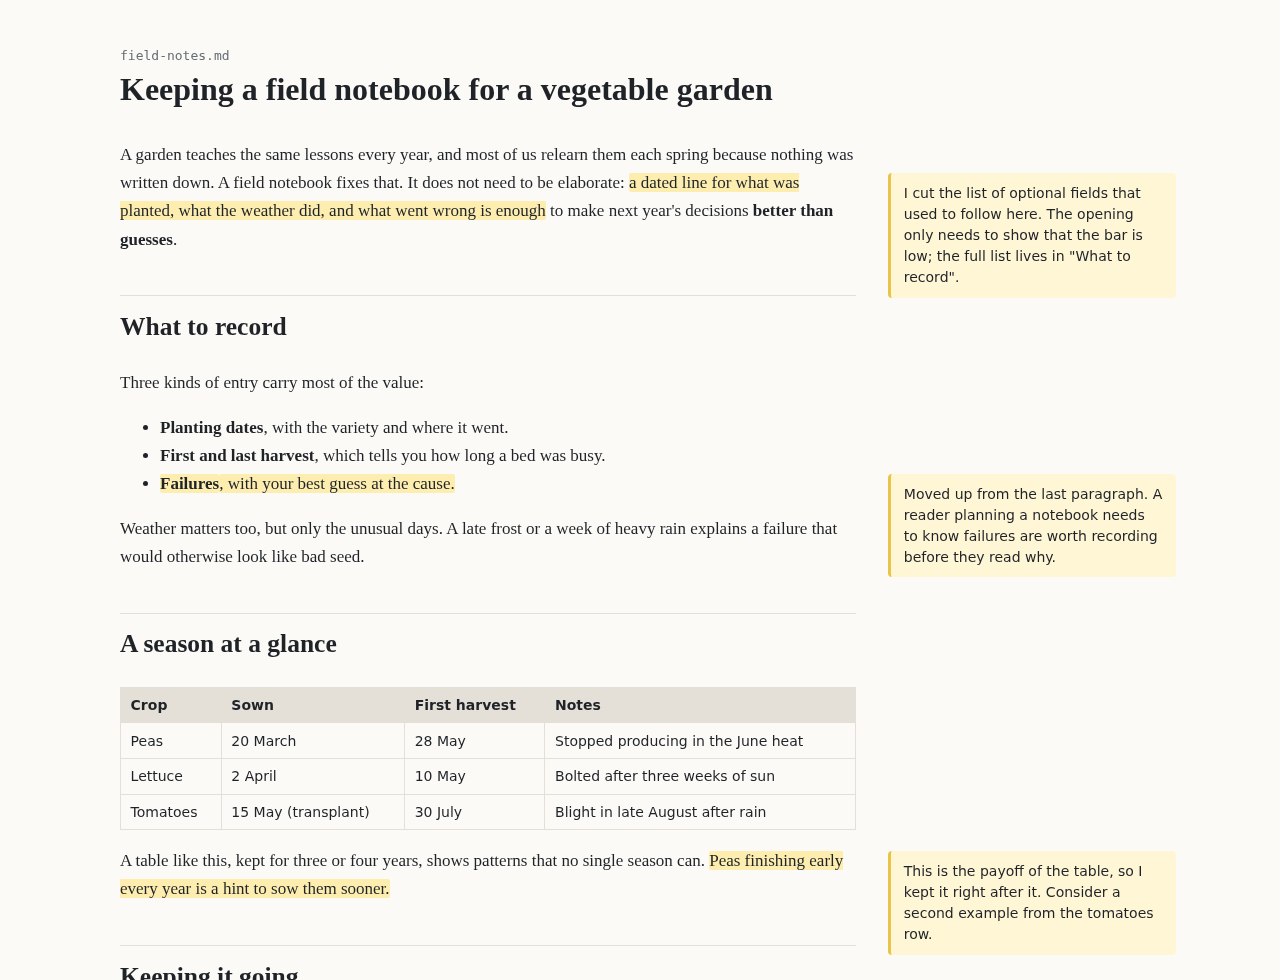
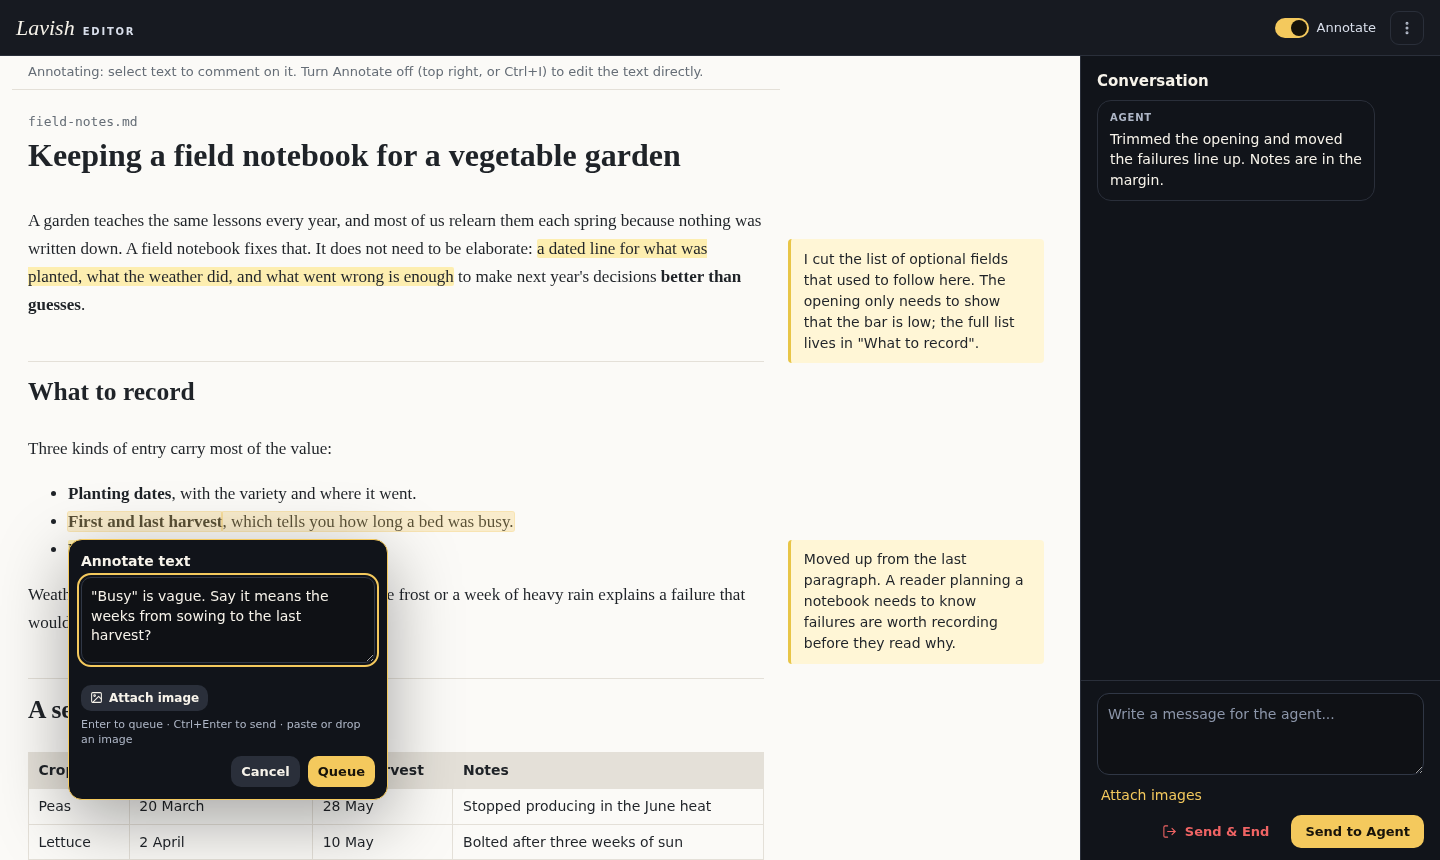
draft: review edits, direct editing, interaction screenshot

diff --git a/_drafts/2026-10-22-interactive-review.md b/_drafts/2026-10-22-interactive-review.md
@@ -5,7 +5,7 @@ categories: [AI Coding, Agent Skill, Claude Code, Writing]
 excerpt: "interactive-review is an agent skill that turns a coding agent into an editor for a draft. You comment on the draft, the agent edits and answers, and the comments get resolved over several turns. It has a visual mode, where you review a rendered page in Lavish instead of reading comment markers in the markdown."
 ---
 
-TL;DR - `interactive-review` is an agent skill for editing a piece of writing with a coding agent over many short turns instead of one rewrite. In the default **bracket mode**, you leave `<comments>` in the markdown file and the agent replies in `<<double brackets>>` beside them. In **visual mode**, the agent renders the markdown to a reading page and opens it in Lavish [[1]], you highlight passages and comment on them in the browser, and the agent's explanations show up as margin notes while the markdown file stays clean. The skill lives in this blog's repository under [`skills/interactive-review`][skill], and installs with `npx skills add kfchou/kfchou.github.io --skill interactive-review`.
+TL;DR - Claude Code users have no good way to review and edit markdown interactively with an agent, so I built one. `interactive-review` is an agent skill that makes the agent your editor, working a draft with you over many short turns instead of one rewrite. You can trade comments inline in the markdown file, or switch to **visual mode**: read a rendered page in Lavish [[1]], highlight a passage, comment on it, and see the agent's explanations in the margin. Install it with `npx skills add kfchou/kfchou.github.io --skill interactive-review`.
 
 ## Table of Contents <!-- omit from toc -->
 
@@ -17,6 +17,8 @@ TL;DR - `interactive-review` is an agent skill for editing a piece of writing wi
 - [Limits](#limits)
 
 ## Why a protocol for editing
+
+I work with markdown files a lot. Agents write good code, but the markdown they write is unpleasant to review in raw form: I end up reading syntax instead of the piece a reader will see. I wanted two things together, a rendered view of the document that is pleasant to read, and an interactive editing session with the agent on that same document.
 
 Asking an agent to "improve this draft" gets you a rewrite. The rewrite is smoother and less mine: the specific claims get softened, the voice drifts toward the model's, and the paragraph I liked is gone with no record of why. Going back and forth in chat keeps the draft intact, but the comments live in the conversation and the edits live in the file, and the two drift apart. After a few rounds I can't tell which of my comments were acted on, which were argued with, and which were dropped.
 
@@ -54,18 +56,22 @@ The agent gets autonomy for local edits only. It changes a word or tightens a pa
 
 On a long draft, bracket mode's markers get in the way of reading. The file fills with comments, a table is hard to judge as raw pipe syntax, and I end up reviewing markdown source instead of the piece a reader will see.
 
+The idea comes from the Claude desktop app, where you can highlight part of a response, comment on it, and have those comments go into your next message. I wanted the same thing for Claude Code users, in something lightweight that runs locally beside a terminal session.
+
 Visual mode moves the conversation out of the file. The skill includes a small script, `scripts/render.sh`, which uses pandoc [[2]] to render the markdown to a reading page: a serif body, tables in a scrolling wrapper, and light and dark themes. The agent opens that page in Lavish [[1]], a local review surface for HTML pages in which you select text, comment on it, and send the comments back to the agent. The agent's notes are a JSON file of `{quote, note}` pairs; the page highlights each quoted passage and shows the note in the margin beside it.
 
-![A rendered draft in visual mode, with highlighted passages and the agent's notes in the right margin](/assets/2026-10-22-interactive-review/visual-mode.png)
+![Visual mode in Lavish: a comment being written on a highlighted list item, with the agent's notes in the margin and its last reply in the Conversation panel](/assets/2026-10-22-interactive-review/visual-mode.png)
 
 One turn in visual mode goes like this:
 
 1. The agent renders the page and opens it with `lavish-axi <page>`.
-2. It waits with `lavish-axi poll <page>`. I read the page, highlight passages, write comments, and send them.
+2. It waits with `lavish-axi poll <page>`. I read the page, comment on passages or edit the text directly, and send.
 3. The agent edits the markdown file, never the page, and rewrites the notes file to explain what it changed and what it wants from me.
 4. It re-renders and waits again with `lavish-axi poll <page> --agent-reply "<handoff>"`, which shows its short summary in Lavish.
 
 This repeats until I end the session from Lavish. The protocol is the same as bracket mode. My comments arrive as quoted selections instead of `<brackets>`, the agent's `<<replies>>` become margin notes, and a resolved thread drops its note. To answer a note, I highlight it and comment.
+
+I can also edit the text on the page. With Lavish's Annotate switch turned off, the paragraphs, headings, list items, and table cells become editable. When I click away from a block I changed, the page queues the change for the agent with the text before and after, and marks the block as edited until the next render. The agent applies the change to the markdown, keeping any bold, links, or code spans around the words I changed. It treats an edit as my decision rather than a suggestion, so it adds a note only when the edit conflicts with something else in the draft. Editing and commenting are separate modes because Lavish doesn't open a comment box for a selection inside editable text.
 
 Notes anchor by exact quote, so a note goes stale when the agent edits the passage it quotes. Stale notes are not dropped. The page lists them at the bottom under "Notes that no longer match the text", and the skill tells the agent to fix or delete them before handing back.
 
@@ -90,6 +96,8 @@ The `--skill` flag is needed because the repository has other skills that only m
 The page doesn't refresh while the agent edits the markdown; it changes only when the agent re-renders it at the end of a turn. There is also no view of what changed since my last review, so I rely on the agent's notes to say what moved.
 
 The quote anchoring is plain text matching. A quote that appears twice highlights its first occurrence, and a quote copied with markdown syntax in it (`**bold**`, link brackets) won't match the rendered text. The agent is told to quote the text as it reads, but that rule is enforced only by the instructions.
+
+Editing on the page changes words, not formatting. Making a phrase bold, adding a link, or splitting a paragraph still goes through a comment. Text I'm in the middle of typing is lost if the agent re-renders before I click away from the block; edits that are already queued survive the reload.
 
 [skill]: https://github.com/kfchou/kfchou.github.io/tree/master/skills/interactive-review
 [skillmd]: https://github.com/kfchou/kfchou.github.io/blob/master/skills/interactive-review/SKILL.md
